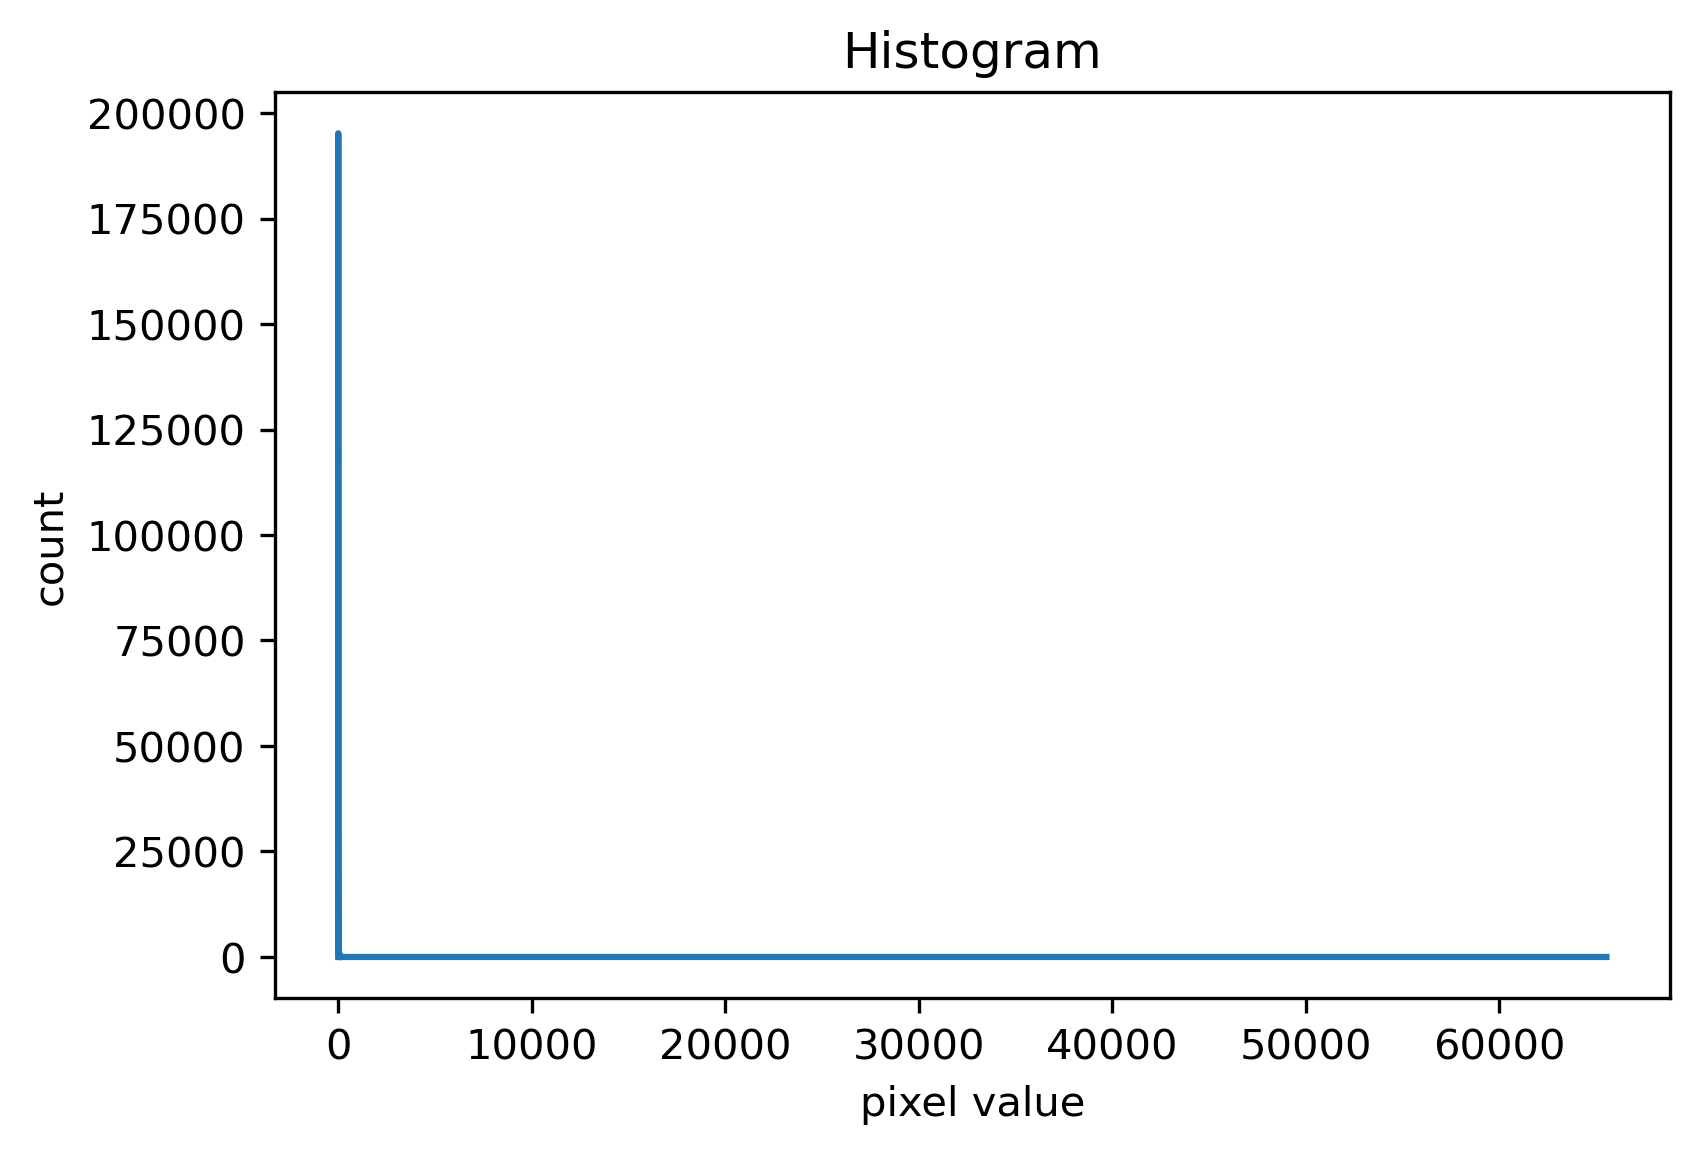
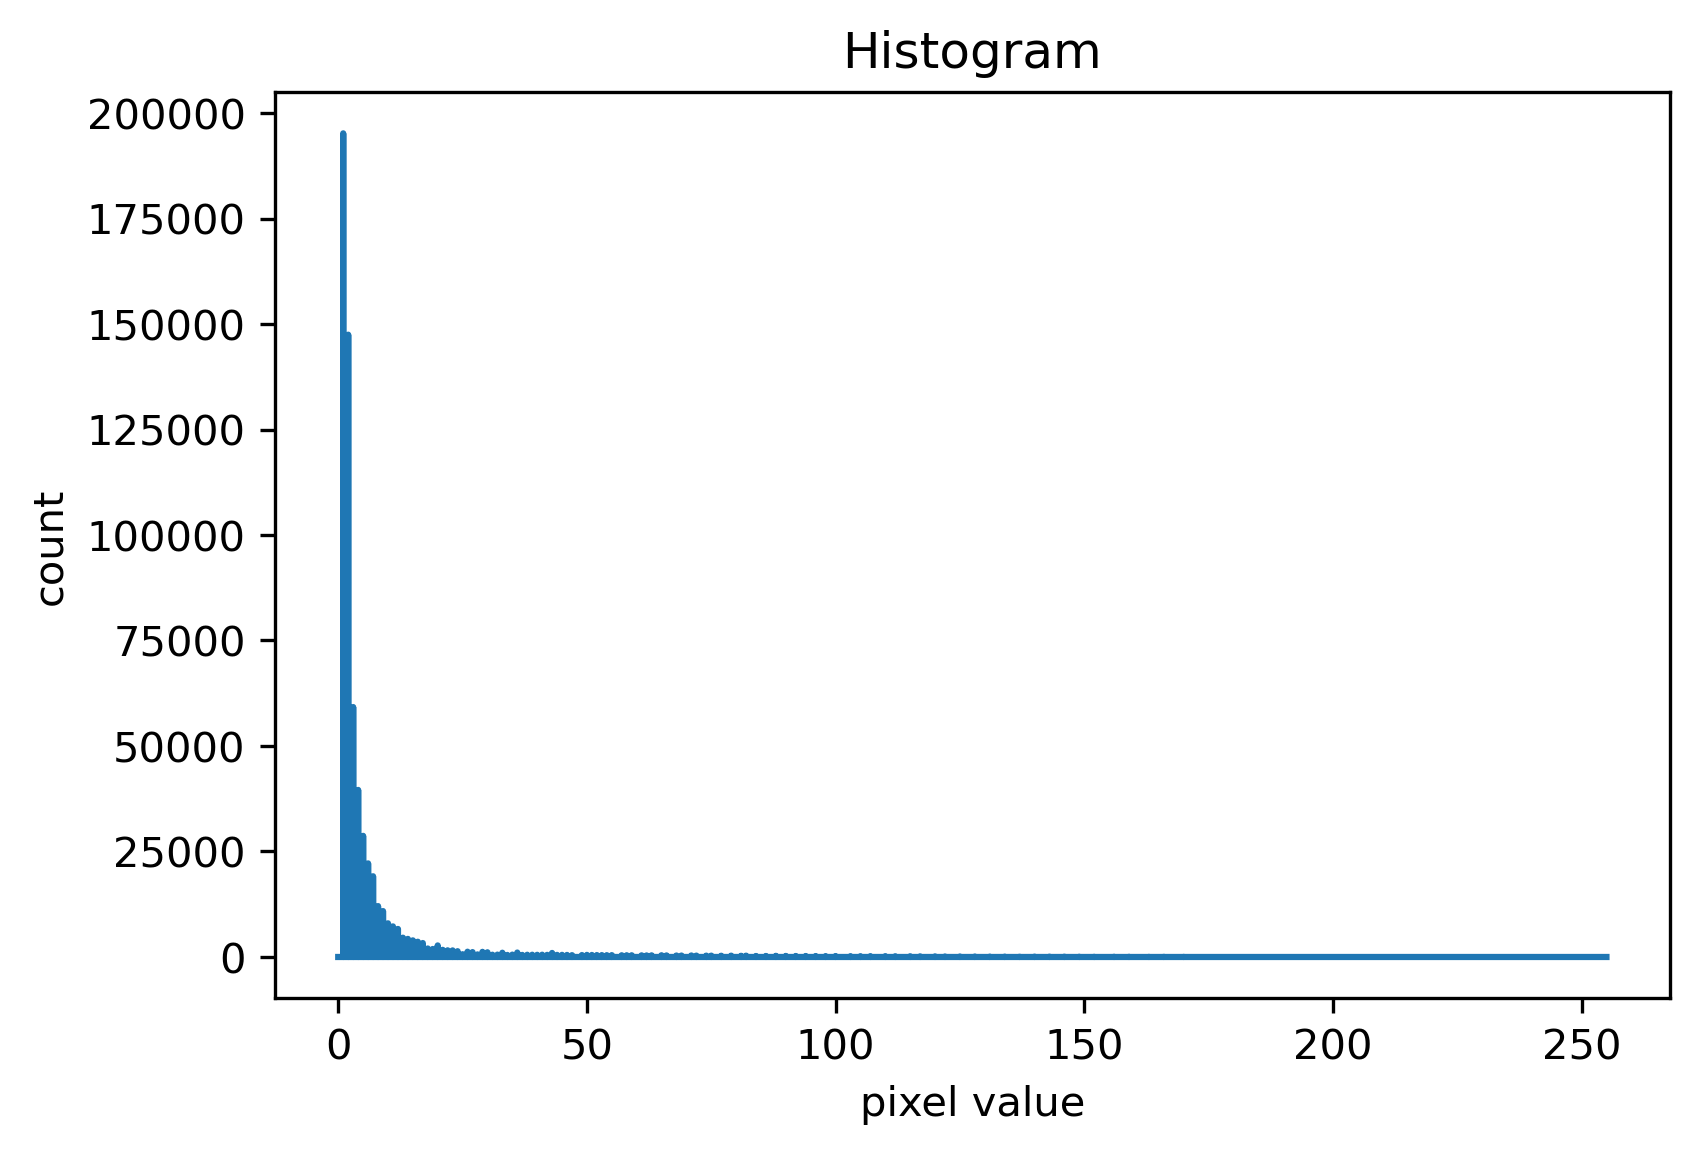
FCNs_1_3

diff --git a/1. Exercise/FCNs_1_3.py b/1. Exercise/FCNs_1_3.py
@@ -1,0 +1,30 @@
+# -*- coding: utf-8 -*-
+"""
+Created on Wed Nov  9 14:45:04 2022
+
+@author: Peter Rott
+"""
+"""2.4 Edge """
+import math
+import cv2
+import numpy as np 
+from matplotlib import pyplot as plt
+
+def Sobel_kernel(img):
+
+    sobelx = cv2.Sobel(img,cv2.CV_32F,1,0,ksize=5)  # x
+    sobely = cv2.Sobel(img,cv2.CV_32F,0,1,ksize=5)  # y
+
+    cv2.imwrite('Sobel_horizontal.jpg', sobelx)
+    cv2.imwrite('Sobel_vertical.jpg', sobely)
+
+"""laplacian_f = cv2.Laplacian(filtered_img,cv2.CV_64F)
+sobelx_f = cv2.Sobel(filtered_img,cv2.CV_64F,1,0,ksize=5)  # x
+sobely_f = cv2.Sobel(filtered_img,cv2.CV_64F,0,1,ksize=5)  # y
+
+laplacian_n = cv2.Laplacian(norm_img,cv2.CV_64F)
+sobelx_n = cv2.Sobel(norm_img,cv2.CV_64F,1,0,ksize=5)  # x
+sobely_n = cv2.Sobel(norm_img,cv2.CV_64F,0,1,ksize=5)  # y
+
+    
+#print "Gradiant : ", math.sqrt(sobelx_f**2 + sobely_f**2)"""

diff --git a/1. Exercise/main.py b/1. Exercise/main.py
@@ -5,6 +5,7 @@ Created on Sat Nov 12 21:00:23 2022
 @author: Peter Rott
 """
 from FCNs_1_2 import *
+from FCNs_1_3 import *
 import math
 import cv2
 import numpy as np 
@@ -35,11 +36,11 @@ Neighborhood(Pixelx,Pixely,img)
 
 #2.5 Treshhold
 Threshold()
-
+"""
 #3-----------------------------------------------------------------------
 #3.1 Edge Detection with Sobel kernel
-Sobel_kernel()
-
+Sobel_Filter = Sobel_kernel(Normalized_Img)
+"""
 #3.2 Image Gradient
 Img_Gradient()
 

diff --git a/1. Exercise/FCNs_1_2.py b/1. Exercise/FCNs_1_2.py
@@ -9,14 +9,13 @@ import cv2
 import numpy as np 
 from matplotlib import pyplot as plt
 
-bits=2**16
 
 """2 OCT image preprocessing framework"""
 
 """Histogram"""
 def display_Histogram(img,bits):
       
-    histogram, bin_edges = np.histogram(img, bins=bits, range=(0, bits))
+    histogram, bin_edges = np.histogram(img, bins=bits, range=(0, 255))
     # configure and draw the histogram figure
     plt.figure()
     plt.title("Histogram")
